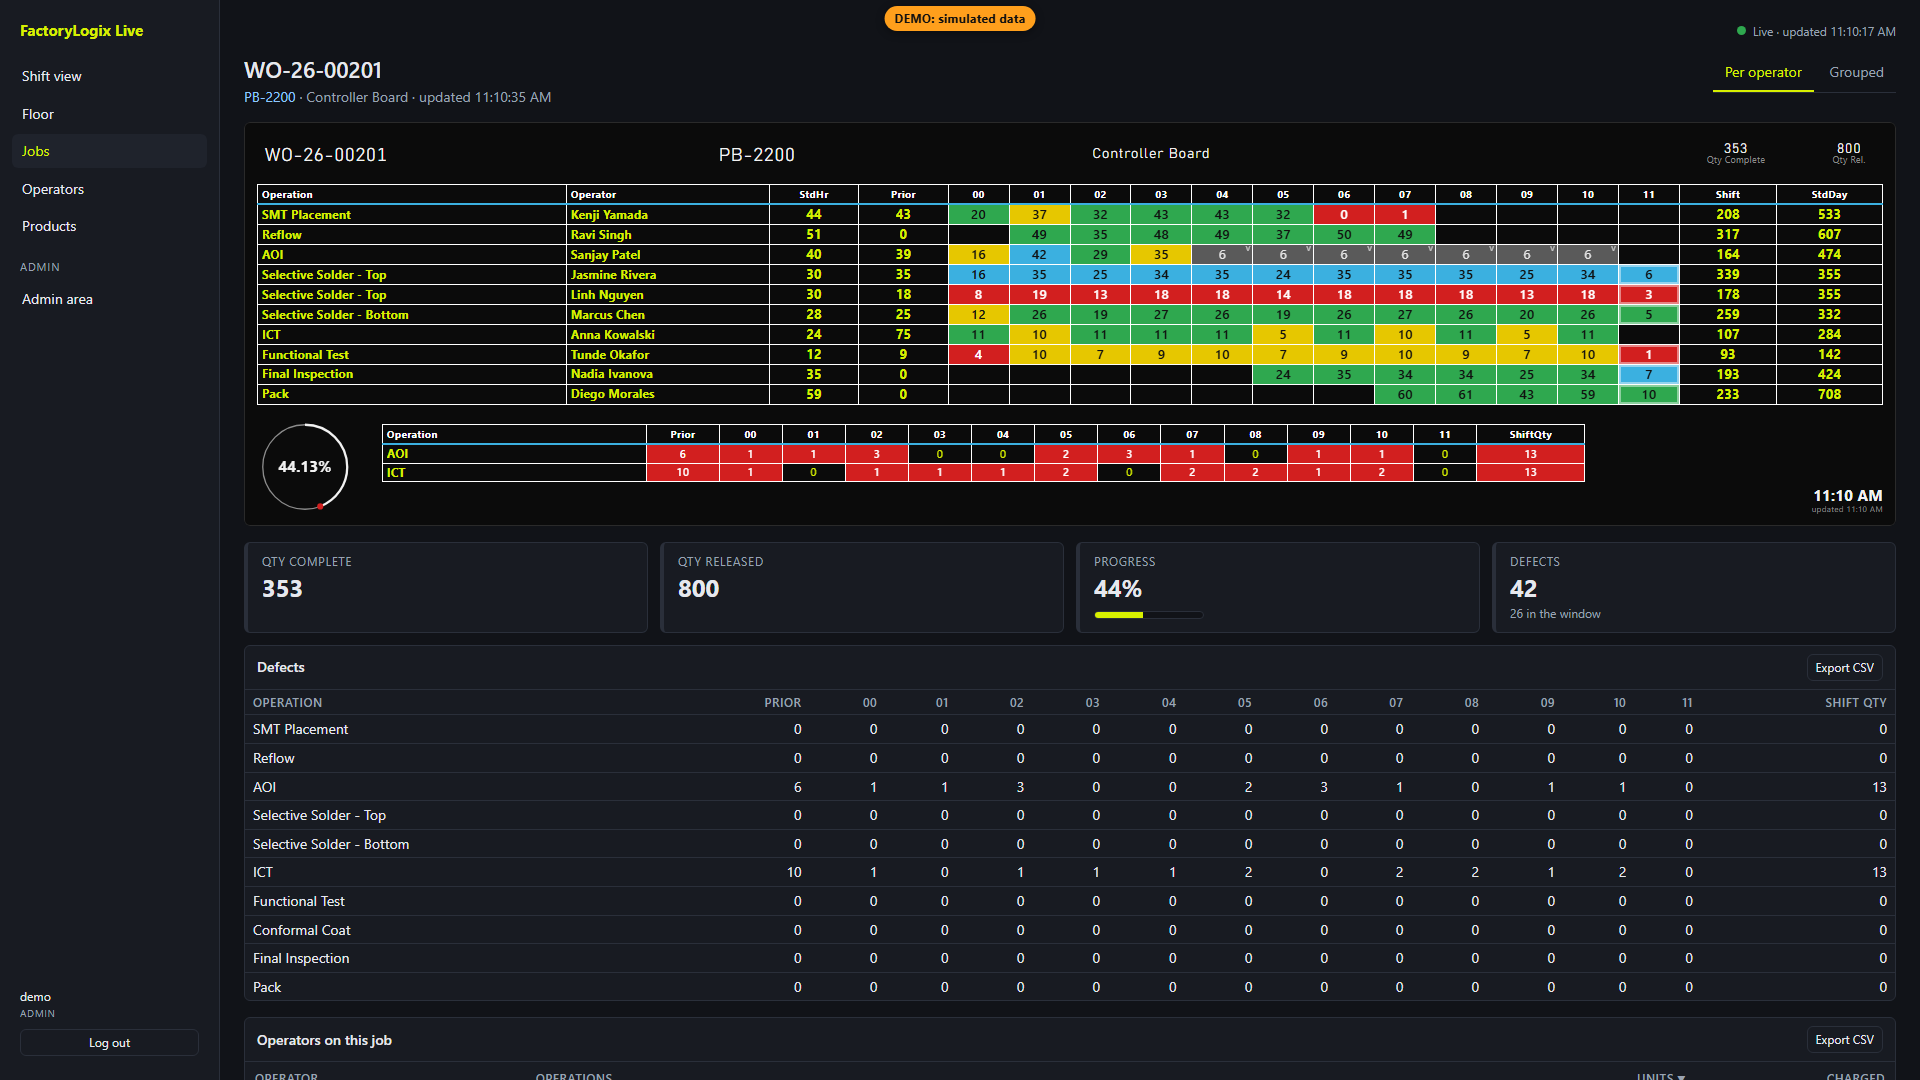
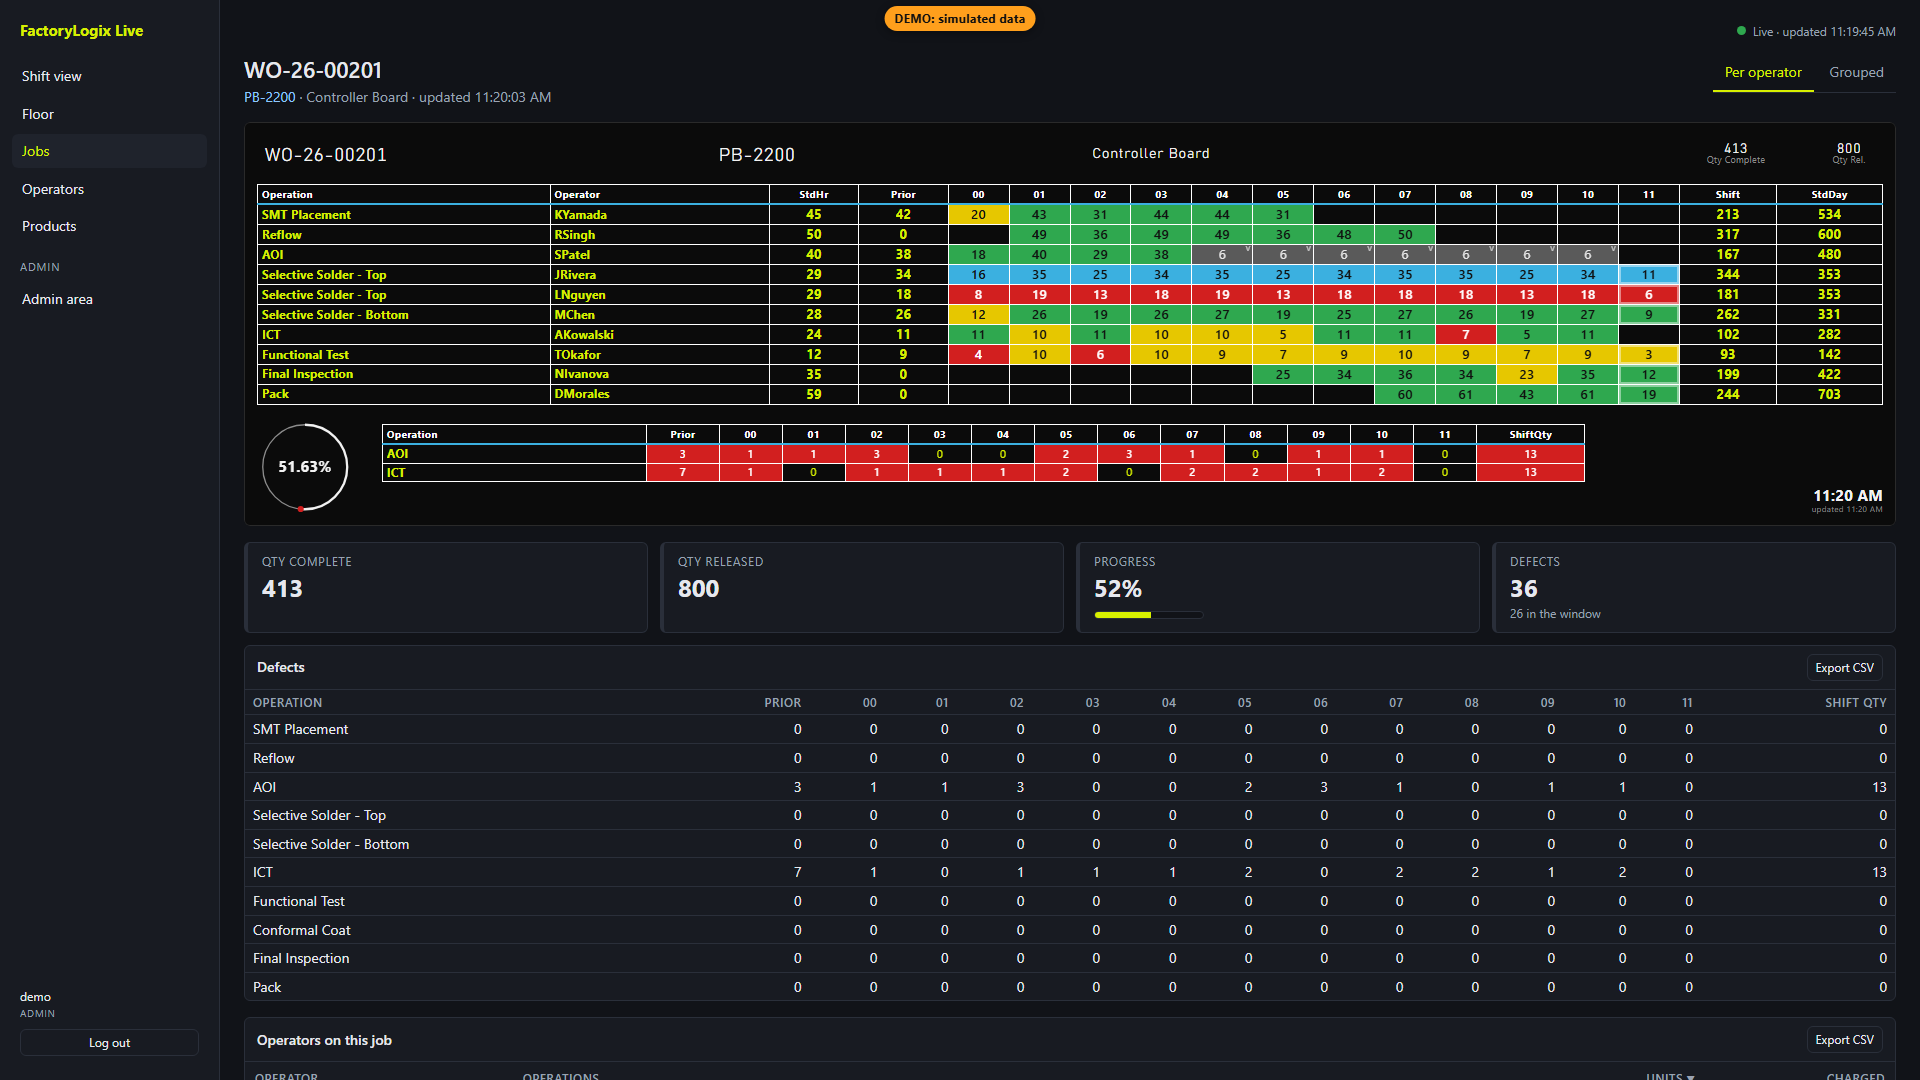
TV: operator column shows the FL user name; grouped mode keeps the column (single operator or "Multiple Operators")

diff --git a/apps/web/src/pages/tv/TvDashboard.tsx b/apps/web/src/pages/tv/TvDashboard.tsx
@@ -12,7 +12,7 @@ import type {
 } from '@fld/shared';
 import { TvClock } from './TvClock';
 import { TvGauge } from './TvGauge';
-import { TV_STYLE_VARS, cellClass, cellText, formatStd } from './tvLogic';
+import { TV_STYLE_VARS, cellClass, cellText, formatStd, rowOperatorLabel } from './tvLogic';
 import './tv.css';
 
 export interface TvDashboardProps {
@@ -40,7 +40,7 @@ export function TvDashboard({ dashboard, showGauge, tz, updatedAt, compact = fal
         <table className="tv-table tv-output-table">
           <colgroup>
             <col className="c-op" />
-            {!grouped && <col className="c-operator" />}
+            <col className="c-operator" />
             <col className="c-std" />
             <col className="c-prior" />
             {columns.map((c) => (
@@ -52,7 +52,7 @@ export function TvDashboard({ dashboard, showGauge, tz, updatedAt, compact = fal
           <thead>
             <tr>
               <th className="t-left">Operation</th>
-              {!grouped && <th className="t-left">Operator</th>}
+              <th className="t-left">Operator</th>
               <th>StdHr</th>
               <th>Prior</th>
               {columns.map((c) => (
@@ -64,13 +64,7 @@ export function TvDashboard({ dashboard, showGauge, tz, updatedAt, compact = fal
           </thead>
           <tbody>
             {rows.map((row) => (
-              <OutputRow
-                key={rowKey(row)}
-                row={row}
-                columns={columns}
-                grouped={grouped}
-                showStdDay={show_std_day}
-              />
+              <OutputRow key={rowKey(row)} row={row} columns={columns} showStdDay={show_std_day} />
             ))}
           </tbody>
         </table>
@@ -117,23 +111,16 @@ function TvHeader({ job }: { job: TvDashboardData['job'] }) {
   );
 }
 
-function OutputRow({
-  row,
-  columns,
-  grouped,
-  showStdDay,
-}: {
-  row: TvRow;
-  columns: WindowColumn[];
-  grouped: boolean;
-  showStdDay: boolean;
-}) {
+function OutputRow({ row, columns, showStdDay }: { row: TvRow; columns: WindowColumn[]; showStdDay: boolean }) {
   // Cells arrive in column order; index defensively in case a column is missing.
   const byHour = new Map<number, TvCell>(row.cells.map((c) => [c.hour_start_utc, c]));
   return (
     <tr className={row.visitor_row ? 'tv-row tv-row-visitor' : 'tv-row'}>
       <td className="t-left tv-op">{row.operation}</td>
-      {!grouped && <td className="t-left tv-operator">{row.operator_name ?? row.operator_id ?? ''}</td>}
+      {/* FactoryLogix user name (e.g. "NSessions"); grouped rows say "Multiple Operators" when several worked the step */}
+      <td className={row.operators.length > 1 ? 't-left tv-operator tv-operator-multi' : 't-left tv-operator'}>
+        {rowOperatorLabel(row)}
+      </td>
       <td className="tv-num">{formatStd(row.std_hr)}</td>
       <td className="tv-num">{row.prior}</td>
       {columns.map((col, i) => {

diff --git a/apps/web/src/pages/tv/TvDashboard.render.test.ts b/apps/web/src/pages/tv/TvDashboard.render.test.ts
@@ -13,12 +13,12 @@ const d: TvDashboardData = {
   columns: cols,
   rows: [
     {
-      operation: 'Selective Solder - Top', operation_seq: 1, operator_id: 'JRivera', operator_name: 'J Rivera',
+      operation: 'Selective Solder - Top', operation_seq: 1, operator_id: 'JRivera', operator_name: 'J Rivera', operators: ['JRivera'],
       std_hr: 30, prior: 30, shift: 118, std_day: 360, visitor_row: false,
       cells: cols.map((c, i) => ({ hour_start_utc: c.hour_start_utc, units: i, color: colors[i % colors.length], pace: 0.9, charged_minutes: 60, eligible: true, visitor: colors[i % colors.length] === 'visitor', provisional: i === 11 })),
     },
     {
-      operation: 'Pack', operation_seq: 2, operator_id: 'VISIT', operator_name: null,
+      operation: 'Pack', operation_seq: 2, operator_id: 'VISIT', operator_name: null, operators: ['VISIT'],
       std_hr: null, prior: 0, shift: 6, std_day: null, visitor_row: true,
       cells: cols.map((c) => ({ hour_start_utc: c.hour_start_utc, units: 0, color: 'visitor' as const, pace: null, charged_minutes: 2, eligible: false, visitor: true, provisional: false })),
     },
@@ -33,6 +33,8 @@ describe('TvDashboard smoke', () => {
     expect(html).toContain('WO-26-00187');
     expect(html).toContain('Qty Complete');
     expect(html).toContain('>Operator<');
+    expect(html).toContain('>JRivera<'); // user name, not the display name
+    expect(html).not.toContain('J Rivera');
     expect(html).toContain('StdDay');
     expect(html).toContain('tv-c-red');
     expect(html).toContain('tv-provisional');
@@ -40,9 +42,12 @@ describe('TvDashboard smoke', () => {
     expect(html).toContain('24.60%');
     expect(html).toContain('—'); // std_hr null
   });
-  it('renders grouped + compact without operator column or gauge', () => {
-    const html = renderToStaticMarkup(createElement(TvDashboard, { dashboard: { ...d, grouped: true, show_std_day: false, rows: d.rows.map((r) => ({ ...r, operator_id: null, operator_name: null })) }, showGauge: false, tz: 'UTC', updatedAt: null, compact: true }));
-    expect(html).not.toContain('>Operator<');
+  it('renders grouped + compact with "Multiple Operators" and no gauge', () => {
+    const rows = d.rows.map((r, i) => (i === 0 ? { ...r, operator_id: null, operator_name: null, operators: ['JRivera', 'LNguyen'] } : r));
+    const html = renderToStaticMarkup(createElement(TvDashboard, { dashboard: { ...d, grouped: true, show_std_day: false, rows }, showGauge: false, tz: 'UTC', updatedAt: null, compact: true }));
+    expect(html).toContain('>Operator<');
+    expect(html).toContain('Multiple Operators');
+    expect(html).toContain('>VISIT<'); // single-operator grouped row keeps its name
     expect(html).not.toContain('StdDay');
     expect(html).not.toContain('tv-gauge');
     expect(html).toContain('tv-compact');

diff --git a/packages/engine/src/views.ts b/packages/engine/src/views.ts
@@ -141,6 +141,8 @@ interface TvRowAcc {
   cells: TvCell[];
   anyEligible: boolean;
   anyVisitor: boolean;
+  eligibleOps: Set<string>;
+  visitorOps: Set<string>;
 }
 
 export function buildTvDashboard(input: TvDashboardInput): TvDashboard {
@@ -177,6 +179,8 @@ export function buildTvDashboard(input: TvDashboardInput): TvDashboard {
         cells: blankRow(columns),
         anyEligible: false,
         anyVisitor: false,
+        eligibleOps: new Set<string>(),
+        visitorOps: new Set<string>(),
       };
       rowAccs.set(key, acc);
     }
@@ -192,6 +196,8 @@ export function buildTvDashboard(input: TvDashboardInput): TvDashboard {
       acc.cells[col] = cell;
       if (cell.eligible) acc.anyEligible = true;
       if (cell.visitor) acc.anyVisitor = true;
+      for (const o of g.eligible_operators) acc.eligibleOps.add(o);
+      for (const o of g.visitor_operators) acc.visitorOps.add(o);
     }
   } else {
     for (const c of cells) {
@@ -200,8 +206,13 @@ export function buildTvDashboard(input: TvDashboardInput): TvDashboard {
       const acc = ensureRow(c.operation, c.operator_id);
       const cell = tvCellFromHourCell(c);
       acc.cells[col] = cell;
-      if (c.eligible) acc.anyEligible = true;
-      else acc.anyVisitor = true;
+      if (c.eligible) {
+        acc.anyEligible = true;
+        acc.eligibleOps.add(c.operator_id);
+      } else {
+        acc.anyVisitor = true;
+        acc.visitorOps.add(c.operator_id);
+      }
     }
   }
 
@@ -226,12 +237,16 @@ export function buildTvDashboard(input: TvDashboardInput): TvDashboard {
       ? priorGrouped.get(acc.operation) ?? 0
       : priorSeparate.get(`${acc.operation}|${acc.operator_id ?? ''}`) ?? 0;
 
+    // Distinct operators inside the window: the eligible ones when there are any, else the visitors.
+    const operators = (acc.eligibleOps.size > 0 ? [...acc.eligibleOps] : [...acc.visitorOps]).sort(cmp);
+    // Grouped rows name their operator only when exactly one operator worked the step.
+    const rowOperator = acc.operator_id ?? (operators.length === 1 ? operators[0]! : null);
     rows.push({
       operation: acc.operation,
       operation_seq: seq(acc.operation),
-      operator_id: acc.operator_id,
-      operator_name:
-        acc.operator_id === null ? null : operator_names[acc.operator_id] ?? acc.operator_id,
+      operator_id: rowOperator,
+      operator_name: rowOperator === null ? null : operator_names[rowOperator] ?? rowOperator,
+      operators,
       std_hr,
       prior: priorUnits,
       cells: acc.cells,

diff --git a/apps/web/src/pages/tv/tvLogic.ts b/apps/web/src/pages/tv/tvLogic.ts
@@ -5,7 +5,7 @@
  * three thin wrappers at the bottom that touch `window` / `localStorage` / `document.cookie`.
  * Those guard every browser access so the module can also be imported in a node test environment.
  */
-import { TV_CELL_TEXT, TV_COLORS, type CellColor } from '@fld/shared';
+import { TV_CELL_TEXT, TV_COLORS, type CellColor, type TvRow } from '@fld/shared';
 
 export const DEVICE_TOKEN_KEY = 'fld_device_token';
 /** 10 years, in seconds (spec 8.1: the token survives reboots and normal cache behavior). */
@@ -241,4 +241,29 @@ export function getDeviceToken(isMock: boolean): string {
   const res = resolveDeviceToken({ search, stored: readStoredDeviceToken(), isMock, generate: randomToken });
   if (res.persist) persistDeviceToken(res.token);
   return res.token;
+}
+
+/**
+ * Operator label for the TV: the FactoryLogix user name (e.g. "NSessions"). When the id is opaque
+ * (an email or a number) or is a full name with spaces, derive first initial + last name from the
+ * best available name so the column always reads like a user name.
+ */
+export function operatorLabel(operator_id: string | null, operator_name: string | null): string {
+  if (operator_id === null) return '';
+  const opaque = operator_id.includes('@') || /^\d+$/.test(operator_id);
+  const source = (opaque && operator_name ? operator_name : operator_id).trim();
+  const parts = source.split(/\s+/);
+  if (parts.length < 2) return source;
+  const first = parts[0]!;
+  const last = parts[parts.length - 1]!;
+  return `${first.charAt(0).toUpperCase()}${last}`;
+}
+
+export const MULTIPLE_OPERATORS = 'Multiple Operators';
+
+/** Operator column text for a row: the single operator's user name, or "Multiple Operators". */
+export function rowOperatorLabel(row: Pick<TvRow, 'operator_id' | 'operator_name' | 'operators'>): string {
+  if (row.operators.length > 1) return MULTIPLE_OPERATORS;
+  const id = row.operator_id ?? row.operators[0] ?? null;
+  return operatorLabel(id, row.operator_name);
 }

diff --git a/apps/web/src/pages/tv/tvLogic.test.ts b/apps/web/src/pages/tv/tvLogic.test.ts
@@ -10,6 +10,8 @@ import {
   deviceCookieString,
   formatProgressPct,
   formatStd,
+  operatorLabel,
+  rowOperatorLabel,
   msUntilNextHour,
   nextHourBoundary,
   readCookie,
@@ -148,5 +150,28 @@ describe('cell mapping', () => {
     expect(TV_STYLE_VARS['--tv-bg']).toBe(TV_COLORS.background);
     expect(TV_STYLE_VARS['--tv-fg']).toBe(TV_COLORS.primaryText);
     expect(TV_STYLE_VARS['--tv-on-red']).toBe(TV_CELL_TEXT.red);
+  });
+});
+
+describe('operator labels', () => {
+  it('shows the FactoryLogix user name as-is', () => {
+    expect(operatorLabel('NSessions', 'Nathan Sessions')).toBe('NSessions');
+    expect(operatorLabel('JRivera', null)).toBe('JRivera');
+  });
+  it('derives first initial + last name from a full-name id', () => {
+    expect(operatorLabel('Nathan Sessions', null)).toBe('NSessions');
+    expect(operatorLabel('  nathan van sessions ', null)).toBe('Nsessions');
+  });
+  it('falls back to the display name for opaque ids', () => {
+    expect(operatorLabel('10423', 'Nathan Sessions')).toBe('NSessions');
+    expect(operatorLabel('n.sessions@example.com', 'Nathan Sessions')).toBe('NSessions');
+    expect(operatorLabel('10423', null)).toBe('10423');
+    expect(operatorLabel(null, 'x')).toBe('');
+  });
+  it('labels grouped rows', () => {
+    expect(rowOperatorLabel({ operator_id: null, operator_name: null, operators: ['A', 'B'] })).toBe('Multiple Operators');
+    expect(rowOperatorLabel({ operator_id: 'JRivera', operator_name: 'Jasmine Rivera', operators: ['JRivera'] })).toBe('JRivera');
+    expect(rowOperatorLabel({ operator_id: null, operator_name: null, operators: ['LNguyen'] })).toBe('LNguyen');
+    expect(rowOperatorLabel({ operator_id: null, operator_name: null, operators: [] })).toBe('');
   });
 });

diff --git a/apps/web/src/data/mock/mock.test.ts b/apps/web/src/data/mock/mock.test.ts
@@ -184,7 +184,9 @@ describe('tv', () => {
       if (token === 'demo-1') {
         expect(dash.rows.some((r) => r.operator_id !== null)).toBe(true);
       } else {
-        expect(dash.rows.every((r) => r.operator_id === null)).toBe(true);
+        // grouped: a row names its operator only when exactly one operator worked the step
+        expect(dash.rows.every((r) => r.operators.length > 0)).toBe(true);
+        expect(dash.rows.every((r) => (r.operators.length === 1 ? r.operator_id === r.operators[0] : r.operator_id === null))).toBe(true);
       }
     });
   }
@@ -258,7 +260,9 @@ describe('tv', () => {
 
     // Grouped mode folds the visitor units into the operation row.
     const grouped = await ds.dashboard(FEATURED_JOB, { grouped: true });
-    expect(grouped.rows.every((r) => r.operator_id === null)).toBe(true);
+    expect(grouped.rows.every((r) => (r.operators.length === 1 ? r.operator_id === r.operators[0] : r.operator_id === null))).toBe(true);
+    // Selective Solder - Top has two operators in the window (blue + red scenario) => "Multiple Operators"
+    expect(grouped.rows.find((r) => r.operation === "Selective Solder - Top")!.operators.length).toBeGreaterThan(1);
     const groupedTop = grouped.rows.find((r) => r.operation === 'Selective Solder - Top')!;
     expect(groupedTop.shift).toBeGreaterThan(
       dash.rows.find((r) => r.operator_id === 'JRivera')!.shift,

diff --git a/packages/engine/test/views.test.ts b/packages/engine/test/views.test.ts
@@ -184,7 +184,13 @@ describe('buildTvDashboard (grouped mode)', () => {
 
   it('produces one row per operation with visitor units folded into the count', () => {
     expect(tv.rows.map((r) => r.operation)).toEqual(['Weld', 'Test']);
-    expect(tv.rows.every((r) => r.operator_id === null && r.operator_name === null)).toBe(true);
+    // grouped rows name a single operator; otherwise operator_id is null and `operators` lists them
+    for (const r of tv.rows) {
+      expect(r.operators.length).toBeGreaterThan(0);
+      if (r.operators.length === 1) expect(r.operator_id).toBe(r.operators[0]);
+      else expect(r.operator_id).toBeNull();
+    }
+    expect(tv.rows[0]!.operators.length).toBeGreaterThan(1);
     const weld = tv.rows[0]!;
     expect(weld.cells[10]!.units).toBe(32); // 25 eligible + 3 + 4 visitor
     expect(weld.cells[11]!.units).toBe(37); // 15 + 20 eligible + 2 visitor

diff --git a/packages/shared/src/engine-types.ts b/packages/shared/src/engine-types.ts
@@ -158,9 +158,11 @@ export interface TvCell {
 export interface TvRow {
   operation: string;
   operation_seq: number;
-  /** null in grouped mode */
+  /** the row's operator; in grouped mode set only when exactly one operator worked the step in the window */
   operator_id: string | null;
   operator_name: string | null;
+  /** distinct operators contributing to the row inside the window (eligible ones when any, else visitors), sorted */
+  operators: string[];
   std_hr: number | null;
   prior: number;
   cells: TvCell[];

diff --git a/apps/web/src/pages/tv/tv.css b/apps/web/src/pages/tv/tv.css
@@ -210,10 +210,10 @@
 }
 
 .tv-output-table col.c-op {
-  width: 19%;
+  width: 18%;
 }
 .tv-output-table col.c-operator {
-  width: 12.5%;
+  width: 13.5%;
 }
 .tv-output-table col.c-std,
 .tv-output-table col.c-prior {
@@ -600,4 +600,11 @@
 .tv-table td.tv-defect-empty {
   color: #8a8a8a;
   font-weight: 400;
+}
+
+/* "Multiple Operators" stays on one line */
+.tv-table td.tv-operator-multi {
+  white-space: nowrap;
+  font-size: calc(var(--tv-fs-cell) * 0.72);
+  letter-spacing: 0;
 }
